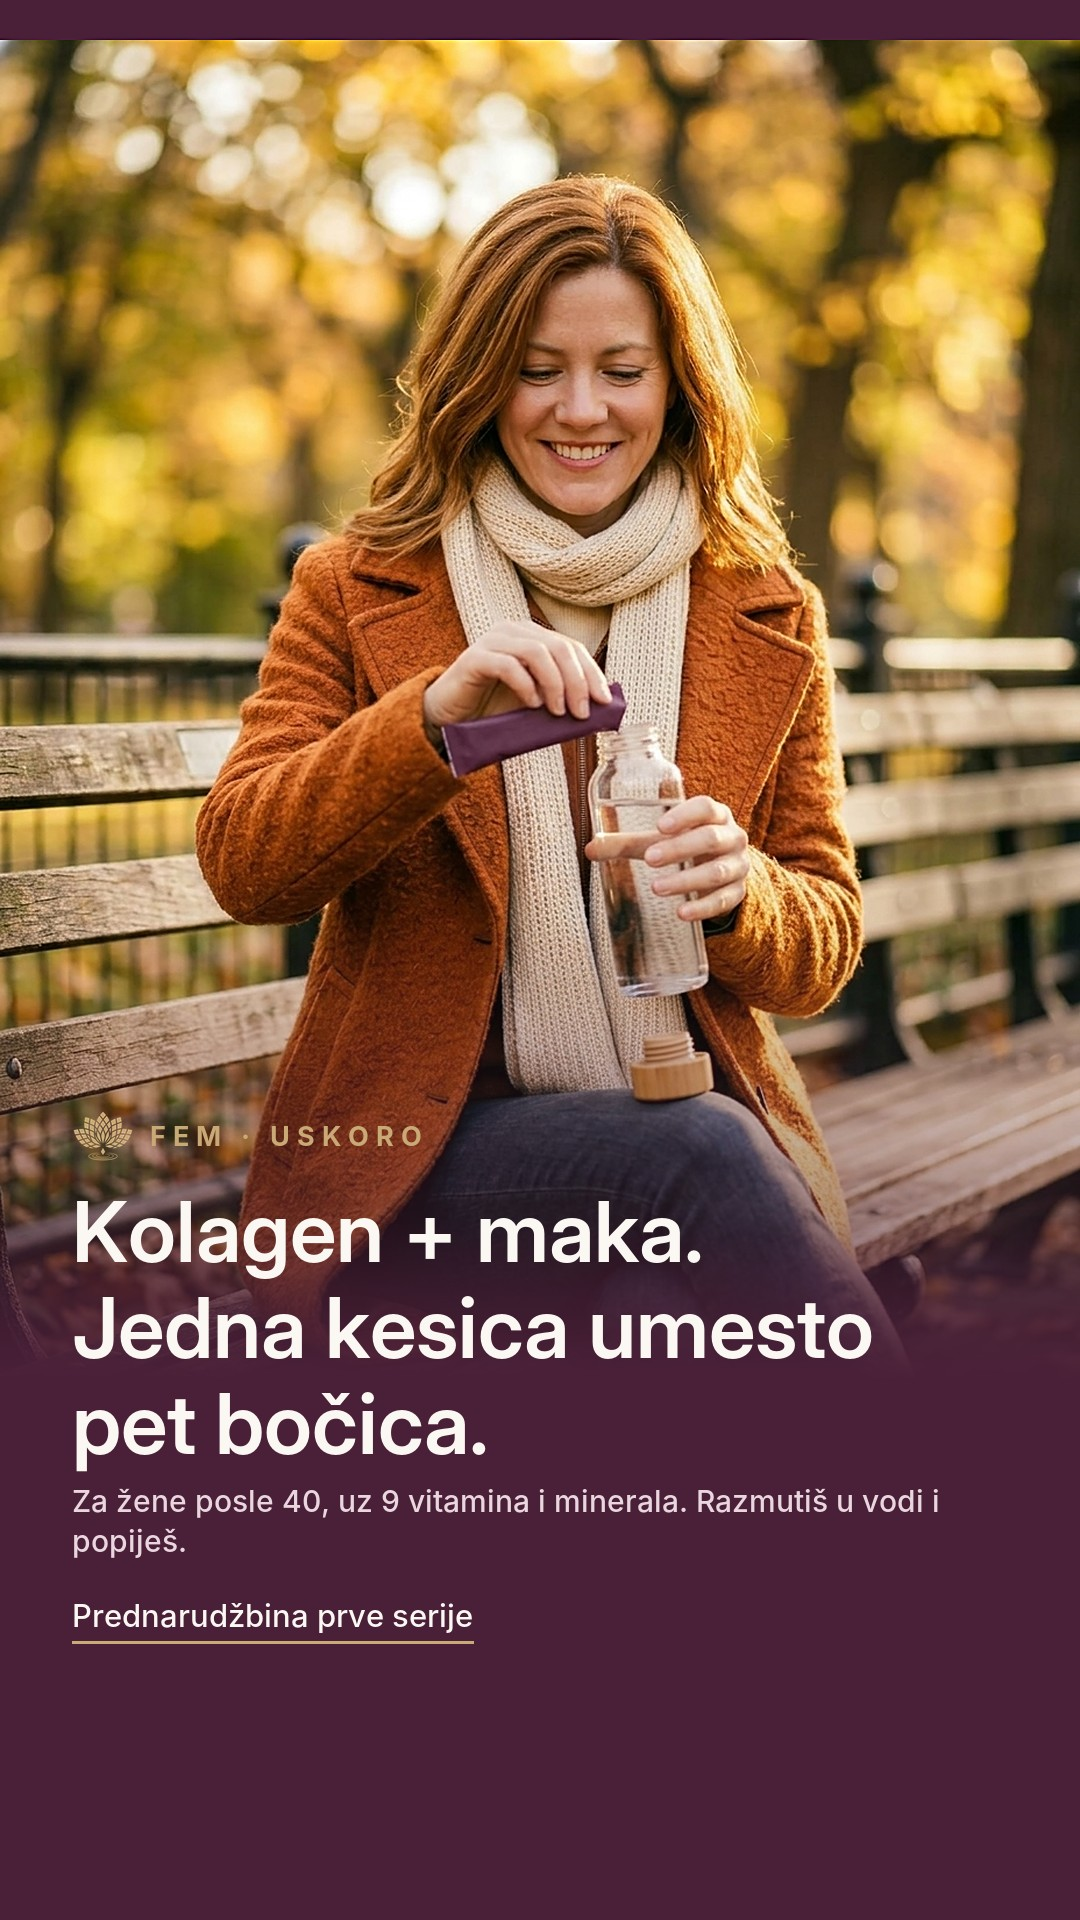
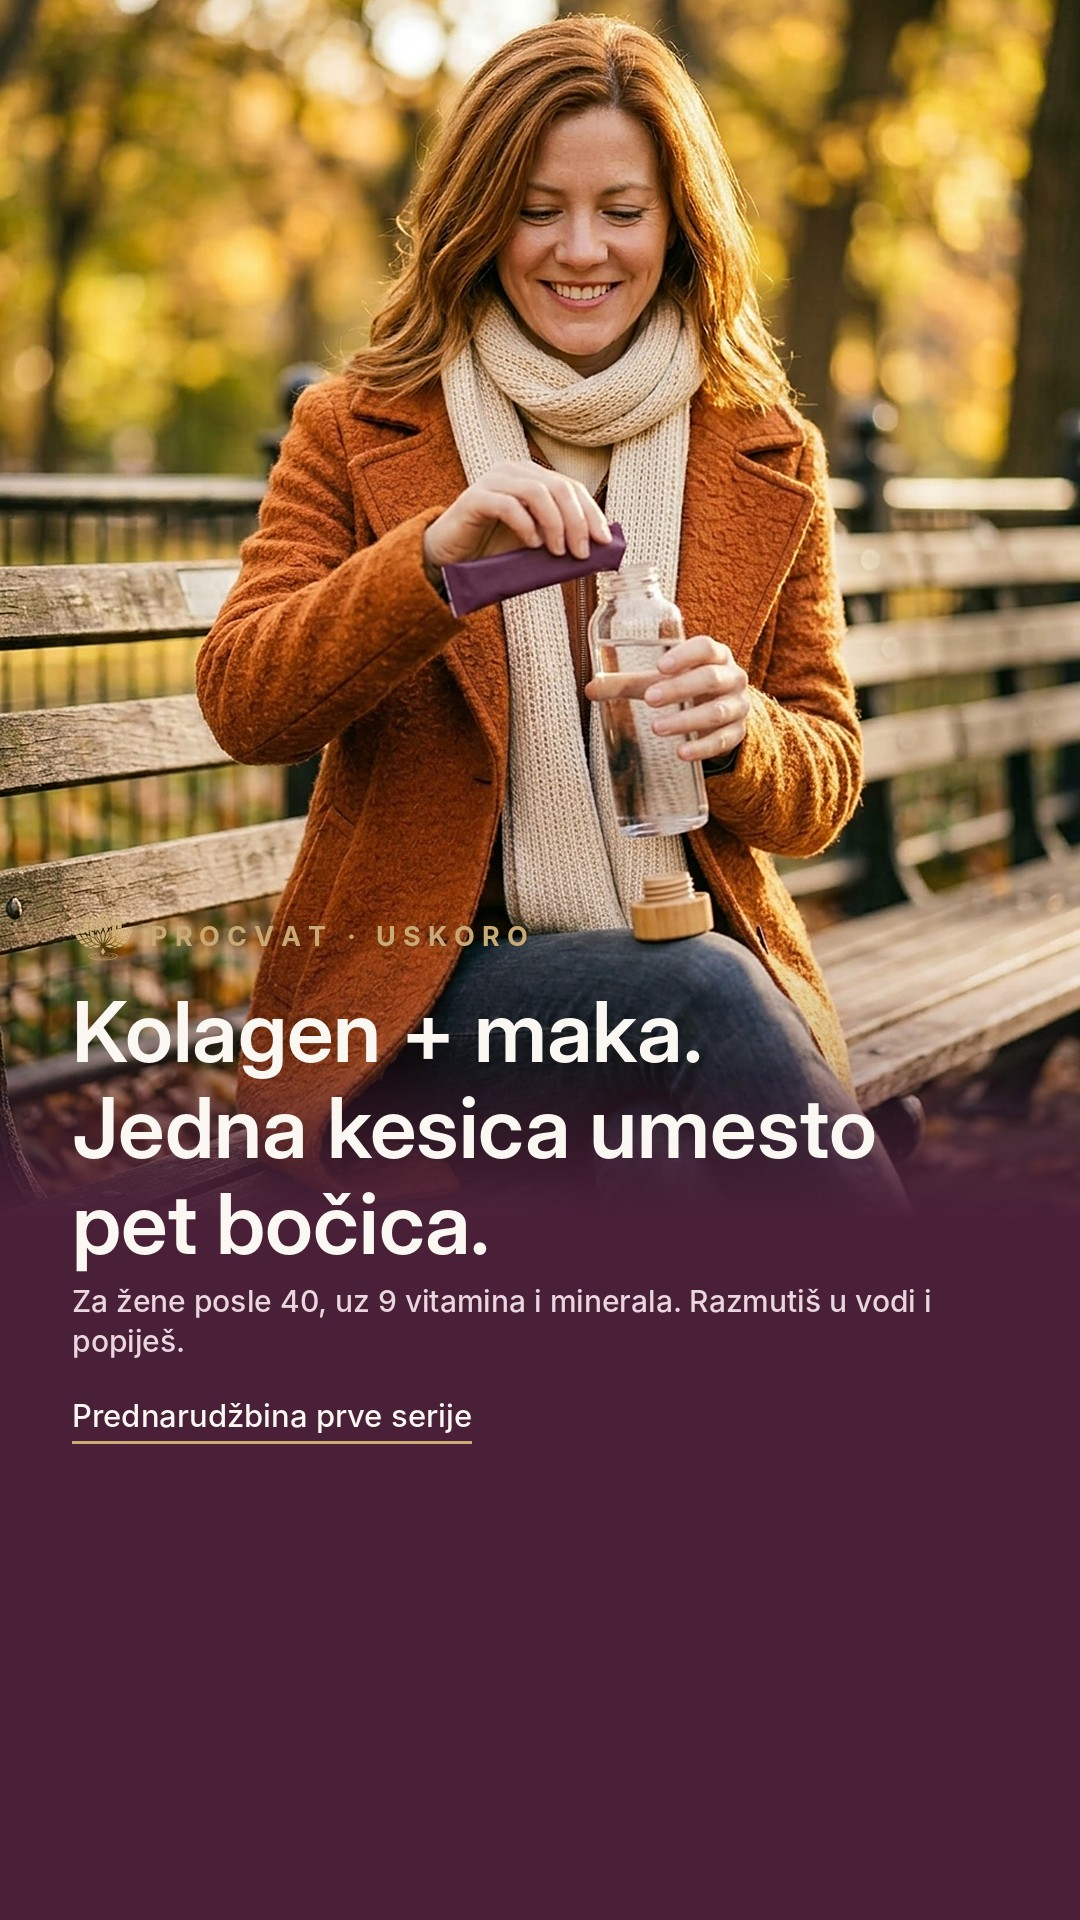
Preimenovanje FEM → Procvat (sajt, oglasi, skripte)
- landing: naziv Procvat na sve tri stranice, broj prednarudžbine PRC-, JS varijable PRC_*
- oglasi: Procvat slike (story opcija A: tekst iznad Reels CTA zone), tekstovi i UTM procvat-f1/f2
- render skripta preimenovana u procvat_oglasi_render.py, eyebrow "PROCVAT · USKORO"
- package/launch/Apps Script komentar, PROCITAJ ažuriran

Claude-Session: https://claude.ai/code/session_014LAG3z9LWpnNf3rGAUo6TG

diff --git a/landing/formula/index.html b/landing/formula/index.html
@@ -3,7 +3,7 @@
 <head>
 <meta charset="utf-8">
 <meta name="viewport" content="width=device-width, initial-scale=1, viewport-fit=cover">
-<title>FEM</title>
+<title>Procvat</title>
 <meta name="description" content="Jutarnja kesica za žene posle 40, uz 9 vitamina i minerala. Prednarudžbina prve serije, ništa ne plaćaš sada.">
 <link rel="icon" href="/znak-32.png">
 <link rel="apple-touch-icon" href="/znak-180.png">
@@ -12,7 +12,7 @@
 (function(){var F={kk:1,km:1,mk:1},V={jutro:1,lepota:1,snaga:1},f="kk",v="jutro";
 try{var q=new URLSearchParams(location.search),qf=q.get("f"),qv=q.get("v");if(qf&&F[qf])f=qf;if(qv&&V[qv])v=qv;}catch(e){}
 if(f==="mk"&&v==="snaga")v="jutro";
-document.documentElement.className+=" f-"+f+" v-"+v;window.FEM_F=f;window.FEM_V=v;window.FEM_T0=Date.now();})();</script>
+document.documentElement.className+=" f-"+f+" v-"+v;window.PRC_F=f;window.PRC_V=v;window.PRC_T0=Date.now();})();</script>
 <link rel="preconnect" href="https://fonts.googleapis.com">
 <link rel="preconnect" href="https://fonts.gstatic.com" crossorigin>
 <link rel="stylesheet" href="https://fonts.googleapis.com/css2?family=Bricolage+Grotesque:opsz,wght@12..96,500;12..96,700&family=Manrope:wght@400;500;600;700&display=swap">
@@ -159,7 +159,7 @@ footer .wrap { display: flex; flex-wrap: wrap; gap: 8px 24px; justify-content: s
 
 <header class="top">
   <div class="wrap">
-    <div class="wordmark"><img class="znak" src="/znak.svg" alt="" width="28" height="28"> FEM</div>
+    <div class="wordmark"><img class="znak" src="/znak.svg" alt="" width="28" height="28"> Procvat</div>
     <div class="pill">U pripremi</div>
   </div>
 </header>
@@ -169,7 +169,7 @@ footer .wrap { display: flex; flex-wrap: wrap; gap: 8px 24px; justify-content: s
     <div>
       <p class="eyebrow">Za žene posle 40 · prednarudžbina prve serije</p>
       <h1 id="h1">Kreatin + kolagen. Jedna kesica umesto pet bočica.</h1>
-      <p class="lede" id="lede"><strong>FEM</strong> je jutarnja kesica kreatina i kolagena, uz 9 vitamina i minerala. Razmutiš u čaši vode i popiješ.</p>
+      <p class="lede" id="lede"><strong>Procvat</strong> je jutarnja kesica kreatina i kolagena, uz 9 vitamina i minerala. Razmutiš u čaši vode i popiješ.</p>
       <a class="cta" id="cta-top" href="#prijava">Poruči unapred · 4.490 RSD</a>
       <p class="reassure">Ništa ne plaćaš sada. Kad prva serija bude spremna, pišemo ti da potvrdiš, a plaćaš pouzećem.</p>
     </div>
@@ -181,7 +181,7 @@ footer .wrap { display: flex; flex-wrap: wrap; gap: 8px 24px; justify-content: s
 (function () {
   var X = { kk: "Kreatin + kolagen", km: "Kreatin + maka", mk: "Kolagen + maka" };
   var GEN = { kk: "kreatina i kolagena", km: "kreatina i make", mk: "kolagena i make" };
-  var f = window.FEM_F, v = window.FEM_V;
+  var f = window.PRC_F, v = window.PRC_V;
   var H = {
     jutro:  { h1: X[f] + ". Jedna kesica umesto pet bočica.",
               lede: "je jutarnja kesica " + GEN[f] + ", uz 9 vitamina i minerala. Razmutiš u čaši vode i popiješ.",
@@ -195,7 +195,7 @@ footer .wrap { display: flex; flex-wrap: wrap; gap: 8px 24px; justify-content: s
   };
   var c = H[v];
   document.getElementById("h1").textContent = c.h1;
-  document.getElementById("lede").innerHTML = "<strong>FEM</strong> " + c.lede;
+  document.getElementById("lede").innerHTML = "<strong>Procvat</strong> " + c.lede;
   var img = document.getElementById("hero");
   if (img.getAttribute("src") !== c.img) img.setAttribute("src", c.img);
   img.setAttribute("alt", c.alt);
@@ -212,7 +212,7 @@ footer .wrap { display: flex; flex-wrap: wrap; gap: 8px 24px; justify-content: s
         jutro:  { src: "proizvod-jutro.jpg",  w: 928,  h: 1152, alt: "Pet ljubičastih kesica sa zlatnim lotosom na drvenoj klupi u parku, pored staklene flaše vode, vunenog šala i jesenjeg lišća" },
         lepota: { src: "proizvod-lepota.jpg", w: 928,  h: 1152, alt: "Pet ljubičastih kesica sa zlatnim lotosom na listu lotosa, na beloj svili, pored ružičastog cveta lotosa" },
         snaga:  { src: "proizvod-snaga.jpg",  w: 1100, h: 614,  alt: "Ljubičaste kesice na lanenom stolnjaku pored bučice, šolje čaja i buketa suvog cveća" }
-      }[window.FEM_V];
+      }[window.PRC_V];
       var img = document.getElementById("inside");
       img.setAttribute("src", P.src); img.setAttribute("width", P.w); img.setAttribute("height", P.h); img.setAttribute("alt", P.alt);
     })();
@@ -268,7 +268,7 @@ footer .wrap { display: flex; flex-wrap: wrap; gap: 8px 24px; justify-content: s
 
 <footer>
   <div class="wrap">
-    <span>FEM je radni naziv proizvoda TF Nootropics d.o.o., Niš.</span>
+    <span>Procvat je proizvod u pripremi kompanije TF Nootropics d.o.o., Niš.</span>
     <span>Dodaci ishrani nisu zamena za raznovrsnu i uravnoteženu ishranu.</span>
     <span>Sajt koristi kolačiće za merenje oglasa. Više u <a href="/privatnost/#kolacici">Politici privatnosti</a>.</span>
     <a href="/privatnost/">Politika privatnosti</a>
@@ -280,8 +280,8 @@ footer .wrap { display: flex; flex-wrap: wrap; gap: 8px 24px; justify-content: s
 var CONFIG = { formEndpoint: "https://script.google.com/macros/s/AKfycbwGafEumpx3a6Fdgrs_zGm_pS2EWWa7-pGjzdsTIrc2cWQUlCyzXV3BJI4ftJHA095s/exec", metaPixelId: "1109415491670878", price: "4.490" };
 
 (function () {
-  var variant = "F-" + window.FEM_F, hook = window.FEM_V, cn = variant + "-" + hook;
-  var T0 = window.FEM_T0 || Date.now();
+  var variant = "F-" + window.PRC_F, hook = window.PRC_V, cn = variant + "-" + hook;
+  var T0 = window.PRC_T0 || Date.now();
   var q; try { q = new URLSearchParams(location.search); } catch (e) { q = null; }
   var debug = !!(q && q.get("debug") === "1");
 
@@ -297,8 +297,8 @@ var CONFIG = { formEndpoint: "https://script.google.com/macros/s/AKfycbwGafEumpx
   function send(payload) {
     payload.variant = variant; payload.hook = hook; payload.page = location.pathname;
     payload.ts = new Date().toISOString(); payload.utm = utm; payload.sek = Math.round((Date.now() - T0) / 1000);
-    if (debug) { payload.qa = true; try { console.log('FEM debug payload', payload); } catch (e) {} }
-    if (!CONFIG.formEndpoint) { try { console.warn('FEM: formEndpoint nije podešen', payload); } catch (e) {} return; }
+    if (debug) { payload.qa = true; try { console.log('Procvat debug payload', payload); } catch (e) {} }
+    if (!CONFIG.formEndpoint) { try { console.warn('Procvat: formEndpoint nije podešen', payload); } catch (e) {} return; }
     try { fetch(CONFIG.formEndpoint, { method: 'POST', mode: 'no-cors', headers: { 'Content-Type': 'text/plain' }, body: JSON.stringify(payload) }); } catch (e) {}
   }
 
@@ -326,7 +326,7 @@ var CONFIG = { formEndpoint: "https://script.google.com/macros/s/AKfycbwGafEumpx
     sent = true;
     document.getElementById('submit').disabled = true;
     var bot = document.getElementById('website').value !== '';
-    var br = 'FEM-' + Date.now().toString(36).toUpperCase().slice(-5);
+    var br = 'PRC-' + Date.now().toString(36).toUpperCase().slice(-5);
     if (!bot) {
       send({ type: 'prednarudzbina', broj: br, email: email, cena: CONFIG.price, saglasnost: true });
       if (window.fbq) window.fbq('track', 'Lead', { content_name: cn, value: 4490, currency: 'RSD' });

diff --git a/landing/privatnost/index.html b/landing/privatnost/index.html
@@ -3,8 +3,8 @@
 <head>
 <meta charset="utf-8">
 <meta name="viewport" content="width=device-width, initial-scale=1, viewport-fit=cover">
-<title>Politika privatnosti · FEM</title>
-<meta name="description" content="Kako TF Nootropics d.o.o. obrađuje podatke iz prednarudžbine za FEM.">
+<title>Politika privatnosti · Procvat</title>
+<meta name="description" content="Kako TF Nootropics d.o.o. obrađuje podatke iz prednarudžbine za Procvat.">
 <link rel="icon" href="/znak-32.png">
 <link rel="apple-touch-icon" href="/znak-180.png">
 <link rel="preconnect" href="https://fonts.googleapis.com">
@@ -82,7 +82,7 @@ footer a { color: inherit; }
 
 <header class="top">
   <div class="wrap">
-    <a class="wordmark" href="/"><img class="znak" src="/znak.svg" alt="" width="28" height="28"> FEM</a>
+    <a class="wordmark" href="/"><img class="znak" src="/znak.svg" alt="" width="28" height="28"> Procvat</a>
     <div class="pill">U pripremi</div>
   </div>
 </header>
@@ -90,10 +90,10 @@ footer a { color: inherit; }
 <main>
   <div class="wrap">
     <article class="doc">
-      <p class="eyebrow">Prednarudžbina · FEM</p>
+      <p class="eyebrow">Prednarudžbina · Procvat</p>
       <h1>Politika privatnosti</h1>
       <p class="updated">Poslednja izmena: 10. novembar 2026.</p>
-      <p class="lede">Ovde piše koje podatke prikupljamo kad ostaviš prednarudžbinu, zašto, koliko ih čuvamo i kako možeš da ih povučeš. FEM je radni naziv proizvoda u pripremi.</p>
+      <p class="lede">Ovde piše koje podatke prikupljamo kad ostaviš prednarudžbinu, zašto, koliko ih čuvamo i kako možeš da ih povučeš. Procvat je proizvod u pripremi.</p>
 
       <h2>Ko obrađuje podatke</h2>
       <div class="box">
@@ -174,7 +174,7 @@ footer a { color: inherit; }
 
 <footer>
   <div class="wrap">
-    <span>FEM je radni naziv proizvoda TF Nootropics d.o.o., Niš.</span>
+    <span>Procvat je proizvod u pripremi kompanije TF Nootropics d.o.o., Niš.</span>
     <span>Dodaci ishrani nisu zamena za raznovrsnu i uravnoteženu ishranu.</span>
     <span>Sajt koristi kolačiće za merenje oglasa. Više u <a href="/privatnost/#kolacici">Politici privatnosti</a>.</span>
     <a href="/privatnost/">Politika privatnosti</a>

diff --git a/landing/index.html b/landing/index.html
@@ -3,7 +3,7 @@
 <head>
 <meta charset="utf-8">
 <meta name="viewport" content="width=device-width, initial-scale=1, viewport-fit=cover">
-<title>FEM · u pripremi</title>
+<title>Procvat · u pripremi</title>
 <meta name="description" content="Jutarnja kesica za žene posle 40. Prednarudžbina prve serije je otvorena.">
 <link rel="icon" href="/znak-32.png">
 <link rel="apple-touch-icon" href="/znak-180.png">
@@ -156,7 +156,7 @@ footer .wrap { display: flex; flex-wrap: wrap; gap: 8px 24px; justify-content: s
 
 <header class="top">
   <div class="wrap">
-    <div class="wordmark"><img class="znak" src="/znak.svg" alt="" width="28" height="28"> FEM</div>
+    <div class="wordmark"><img class="znak" src="/znak.svg" alt="" width="28" height="28"> Procvat</div>
     <div class="pill">U pripremi</div>
   </div>
 </header>
@@ -166,15 +166,15 @@ footer .wrap { display: flex; flex-wrap: wrap; gap: 8px 24px; justify-content: s
     <div>
       <p class="eyebrow">Za žene posle 40 · u pripremi</p>
       <h1>Jedna kesica umesto pet bočica.</h1>
-      <p class="lede"><strong>FEM</strong> je jutarnja kesica za žene posle 40, uz 9 vitamina i minerala. Prednarudžbina prve serije je otvorena.</p>
-      <a class="cta" href="/formula/">Pogledaj FEM</a>
+      <p class="lede"><strong>Procvat</strong> je jutarnja kesica za žene posle 40, uz 9 vitamina i minerala. Prednarudžbina prve serije je otvorena.</p>
+      <a class="cta" href="/formula/">Pogledaj Procvat</a>
     </div>
   </div>
 </section>
 
 <footer>
   <div class="wrap">
-    <span>FEM je radni naziv proizvoda TF Nootropics d.o.o., Niš.</span>
+    <span>Procvat je proizvod u pripremi kompanije TF Nootropics d.o.o., Niš.</span>
     <span>Dodaci ishrani nisu zamena za raznovrsnu i uravnoteženu ishranu.</span>
     <span>Sajt koristi kolačiće za merenje oglasa. Više u <a href="/privatnost/#kolacici">Politici privatnosti</a>.</span>
     <a href="/privatnost/">Politika privatnosti</a>

diff --git a/procvat_oglasi_render.py b/procvat_oglasi_render.py
@@ -1,5 +1,5 @@
-# FEM oglasi: render naslova preko fotografije (feed 4:5 i story 9:16), test od 13.11.2026.
-# Upotreba (iz fem-sajt\):  python fem_oglasi_render.py ..\fotografije oglasi
+# Procvat oglasi: render naslova preko fotografije (feed 4:5 i story 9:16), test od 13.11.2026.
+# Upotreba (iz fem-sajt\):  python procvat_oglasi_render.py ..\fotografije oglasi
 # Skripta sama piše u oglasi\faza1\ i oglasi\faza2\, i pravi oglasi\pregled-oglasi.jpg.
 # Fontovi: fem-sajt\fonts (InterDisplay-SemiBold.otf, Inter-Bold.otf, Inter-Medium.otf). Znak: ..\Logo Final\export\znak-zlatni-1000.png
 # Treba samo: pip install pillow
@@ -7,7 +7,7 @@ import sys, os
 from PIL import Image, ImageDraw, ImageFont, ImageFilter
 A, O = sys.argv[1], sys.argv[2]
 HERE = os.path.dirname(os.path.abspath(__file__))
-F = os.path.join(HERE, "fonts") + os.sep  # fem-sajt\fonts, pored skripte
+F = os.path.join(HERE, "fonts") + os.sep  # fonts, pored skripte
 ZNAK = os.path.join(HERE, "..", "Logo Final", "export", "znak-zlatni-1000.png")
 def fnt(n, s): return ImageFont.truetype(F + n, s)
 PURPLE = (74, 32, 56); GOLD = (201, 170, 118); WHITE = (251, 247, 242); SOFT = (234, 214, 222)
@@ -54,11 +54,11 @@ def ad(src, out, head, small, w, h, cx=0.5, cy=0.5, bottom_pad=150, top=False, y
     hl = [l for part in head.split("|") for l in wrap(d, part, hf, maxw)]; sl = wrap(d, small, sf, maxw) if small else []
     block = ZH + 18 + len(hl) * 96 + (14 + len(sl) * 40 if sl else 0) + 34 + 44
     y = h - bottom_pad - block
-    # eyebrow red: znak (52 px) + 16 px + "FEM · USKORO", vertikalno centrirano
+    # eyebrow red: znak (52 px) + 16 px + "PROCVAT · USKORO", vertikalno centrirano
     im.alpha_composite(ZNAK_IM, (L, y))
     x = L + ZNAK_IM.width + 16
-    eb = "FEM · USKORO"
-    t0, t1 = d.textbbox((0, 0), "FEM", font=ef)[1::2]  # gornja i donja ivica velikih slova
+    eb = "PROCVAT · USKORO"
+    t0, t1 = d.textbbox((0, 0), "PROCVAT", font=ef)[1::2]  # gornja i donja ivica velikih slova
     ty = y + (ZH - (t1 - t0)) / 2 - t0
     for ch in eb:
         d.text((x, ty), ch, font=ef, fill=GOLD); x += d.textlength(ch, font=ef) + 7
@@ -86,13 +86,13 @@ JOBS = [
     ("faza2", "f2_snaga", "snaga_oglas.jpg.jpeg", "Trening posle 40.|Kreatin 3 g, svako jutro.",
      "Kreatin povećava fizičku sposobnost pri uzastopnim, kratkotrajnim vežbama visokog intenziteta.", 0.5, 0.0),
 ]
-FMTS = {"feed_4x5": (1080, 1350, 70, False), "story_9x16": (1080, 1920, 280, True)}
+FMTS = {"feed_4x5": (1080, 1350, 70, False), "story_9x16": (1080, 1920, 480, True)}
 outs = {}
 for fmt, (w, h, bp, top) in FMTS.items():
     for faza, name, src, head, small, cx, cy in JOBS:
         os.makedirs(os.path.join(O, faza), exist_ok=True)
         out = os.path.join(O, faza, f"{name}_{fmt}.jpg")
-        ad(os.path.join(A, src), out, head, small, w, h, cx=cx, cy=cy, bottom_pad=bp, top=top, y0=40 if top else 0)
+        ad(os.path.join(A, src), out, head, small, w, h, cx=cx, cy=cy, bottom_pad=bp, top=top, y0=-120 if top else 0)  # story: vrh fotke odsečen, tekst iznad Reels CTA zone
         outs[(fmt, name)] = out
 
 # Pregled: svih 10 na jednoj slici (gore feed, dole story)
